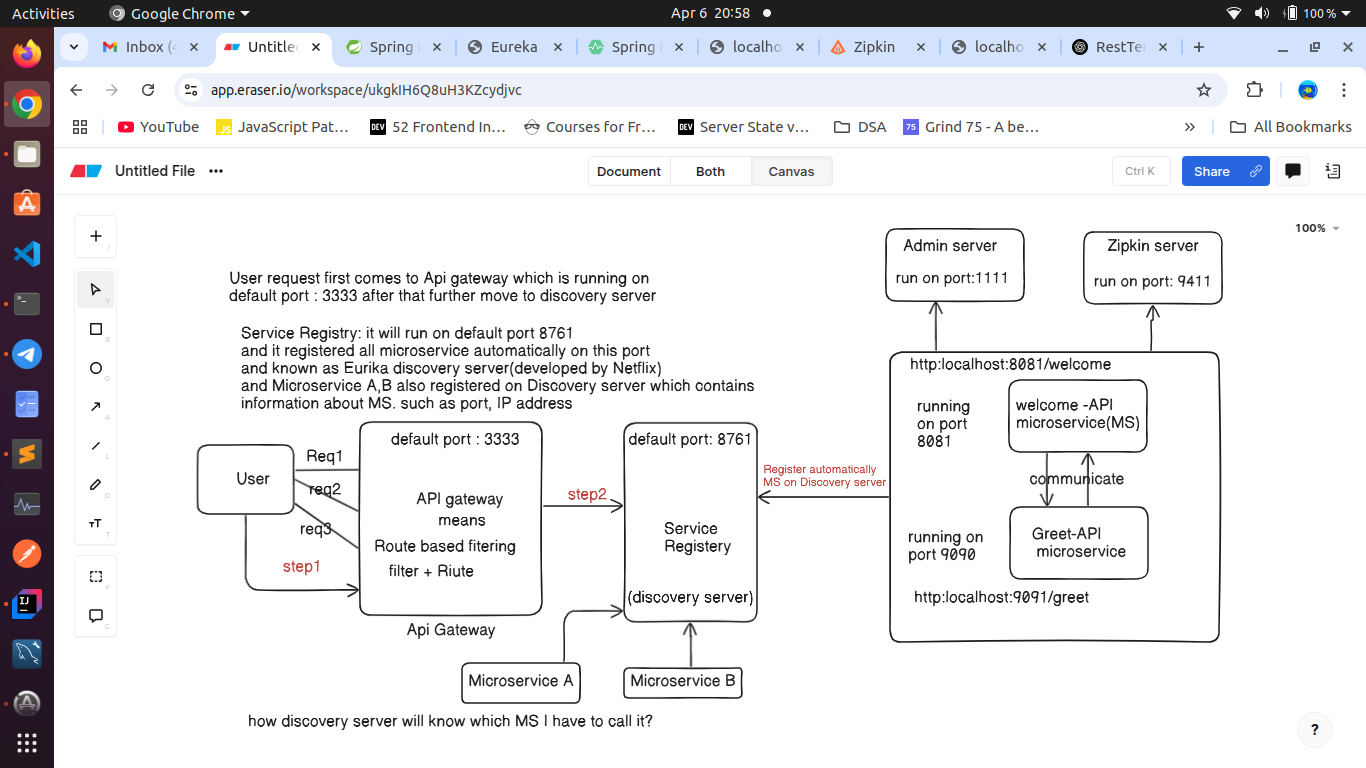
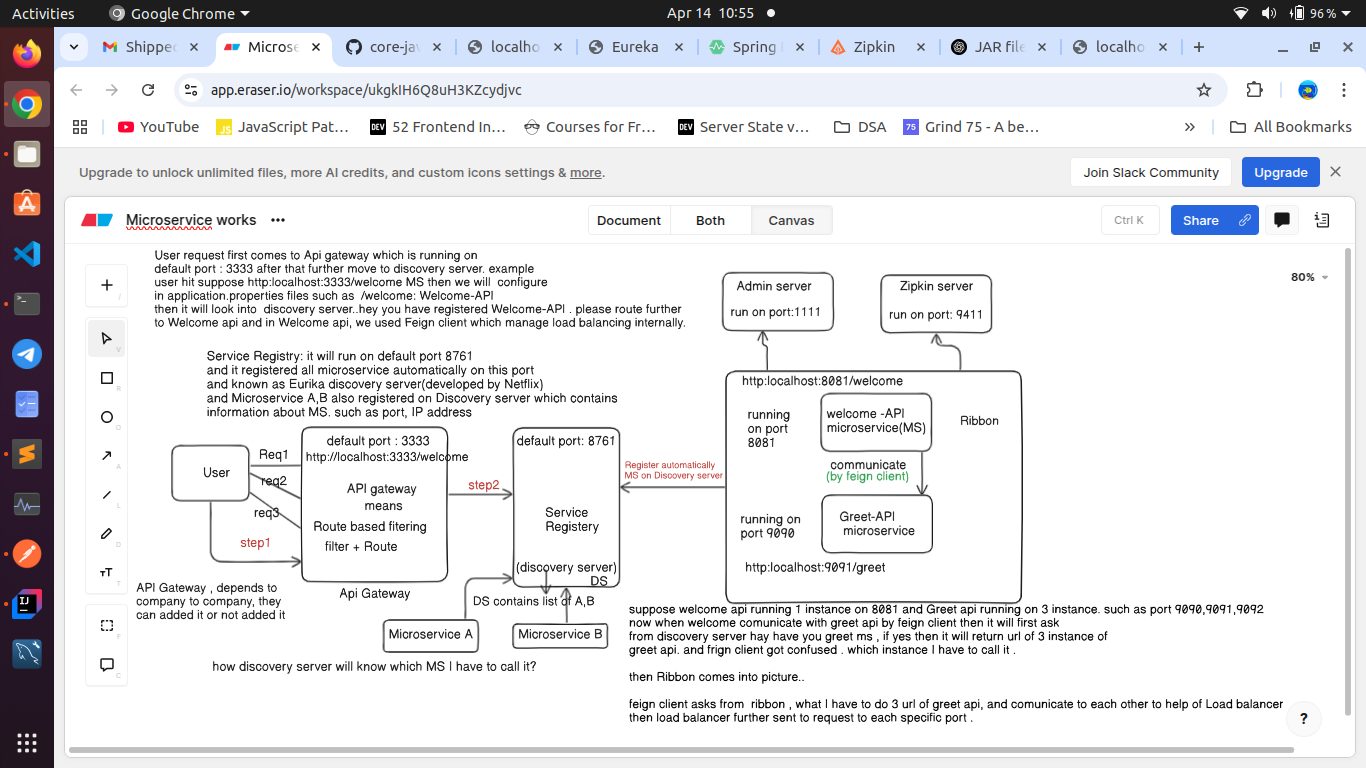
Microservice part 2 with load balancing concept done

diff --git a/Microservice/Greet-API/src/main/java/com/krish/Greet_API/controller/GreetController.java b/Microservice/Greet-API/src/main/java/com/krish/Greet_API/controller/GreetController.java
@@ -1,7 +1,10 @@
 package com.krish.Greet_API.controller;
 
+import com.netflix.discovery.converters.Auto;
 import org.slf4j.Logger;
 import org.slf4j.LoggerFactory;
+import org.springframework.beans.factory.annotation.Autowired;
+import org.springframework.core.env.Environment;
 import org.springframework.web.bind.annotation.GetMapping;
 import org.springframework.web.bind.annotation.RestController;
 
@@ -12,30 +15,130 @@ public class GreetController {
     //for logger enable
     private static final Logger logger= LoggerFactory.getLogger(GreetController.class);
 
+    @Autowired
+    private Environment environment;
+
     @GetMapping("/greet")
     public String greetMsg(){
         logger.info("inside greetMsg method in Greet api");
-        return "Good Morning , I am from Greet-API MS";
+        String port = environment.getProperty("server.port");///greet endpoinst kis port
+        // per chal reha hai bata do by using environment
+        System.out.println("running on port= "+port);
+        return "Good Morning , I am from Greet-API MS "+port;
     }
+
 }
+    /* In Microservice part 2 start here in which we learn how Greet-api MS runs on different
+    -2 port such as 9090,9091,9092
 
-/*
-* we can enable and disable logger from admin server without application restart
-* * http://localhost:1111/instances/3ec2b8d8f08a/loggers
-    make Root is OFF inside Logger
- * try to hit greet api and check console..
- *
- * we need add this config for admin server
- * spring.boot.admin.client.url=http://localhost:1111/
+     and also learn for api gateway filtering and environment
 
-*
-* result: 2025-04-06T08:50:01.759+05:30  INFO [Greet-API,,,] 161093 ---
-*  [Greet-API] [nio-9090-exec-7] [67f1f2e1e92d0aeb53ce752391809bbb-53ce752391809bbb]
-* c.k.G.controller.GreetController : inside greetMsg method in Greet api
+     By Using Environment varaible we can check which port number greet-api runs.
+    * 1.)
+    * suppose we want to check which port number running for greet-api without specify
+    * port in application.properties files such as server.port = server.port=9090
+    * then first make it server.port=9090 disabled it and used
+    * private Environment env;
+    -----------------------------------------------
+    2.)
+    Now we will create jar file of greet-api by using maven
 
- *
-* IN production, we can not add System.out.println() because console will not show in prod
-*  that's why we used Logger to show log file
-* such as to print message which work like console.log() in javascript
-*
+    click on maven icon -> Lifecycle ->
+    select clean and install and play/click green run button
+    then you will find under target -> Greet-API-0.0.1-SNAPSHOT.jar
+    --------------------------------------------
+    3.) start discovery server, admin server,zipkin, welcome api
+    and check in discovery server it is showing in it.
+        http://localhost:8761/
+        http://localhost:1111/applications
+        http://localhost:9411/zipkin/
+        welcome api is listed here.
+        http://localhost:8081/welcome
+
+    4.) now go to cmd
+Microservice/Greet-API/target$ java -jar Greet-API-0.0.1-SNAPSHOT.jar --server.port=9091
+successfully run on cmd console and you will see message like:
+2025-04-13T20:10:52.722+05:30  INFO
+[Greet-API,67fbccf462d5fe1d62fcb639c8be9147,62fcb639c8be9147] 85495 ---
+[Greet-API] [nio-9091-exec-9] [67fbccf462d5fe1d62fcb639c8be9147-62fcb639c8be9147] 4
+c.k.G.controller.GreetController         : inside greetMsg method in Greet api
+running on port= 9091
+
+http://localhost:9091/greet
+Good Morning , I am from Greet-API MS 9091
+
+till now everytjing is working fine
+
+---------------------------------------------------------
+
+5.) now try to greet-api run on  on 9092 and 9093 port as well
+
+Microservice/Greet-API/target$ java -jar Greet-API-0.0.1-SNAPSHOT.jar --server.port=9092
+http://localhost:9092/greet
+Good Morning , I am from Greet-API MS 9092
+
+
+Microservice/Greet-API/target$ java -jar Greet-API-0.0.1-SNAPSHOT.jar --server.port=9090
+http://localhost:9090/greet
+Good Morning , I am from Greet-API MS 9090
+
+Now till now 3 instance of greet-api MS run on different -2 port
+we acheived that till now.
+-------------------------------------------------
+
+6.) Now we will see magic of load balancing..
+open postman/or run in browser and run/hit multiple times: http://localhost:8081/welcome
+same url on different port it will take help from Eurika
+then you will see that load balancing manage automatically when ou hit single /welcome
+Good Morning , I am from Greet-API MS 9091 Hi, I am from Welcome API
+Good Morning , I am from Greet-API MS 9090 Hi, I am from Welcome API
+Good Morning , I am from Greet-API MS 9092 Hi, I am from Welcome API
+
+------------ End here --------------
+
 * */
+
+/** Let see how load balance manage without feign client
+ *
+ * like banking,enterprise,product based company don't like to used open source tool
+ * so y company apny hi internal algorithm likty hai
+ *  so wsee hi y load balance ko implement kerny k liye , in api gateway ko apni
+ *  algorithm d deta hai suppose
+ *
+ *  if api gateway check if request is coming from more than 3 then it will used
+ *  modolus (%) opeartor ka used kerky each instance ko index assign ker deta hai
+ *  such as 0,1,2
+ *
+ *  when hit first request, 0%3=0 (index) means runs 9090 instance
+ *  when hit second request, 1%3=1 (index) means runs 9091 instance
+ *  when hit third request, 2%3=2 (index) means runs 9092 instance
+ *
+ *  again when hit fourth request, 3%3=0 (index) means runs 9090 instance
+ *  again when hit fifth request, 4%3=1 (index) means runs 9091 instance
+ *  again when hit six request, 5%3=2 (index) means runs 9092 instance
+ *
+ *  and continue this process.....
+ *
+ *  Just for understanding interview perespective...
+ *
+ *---------------------------------------
+ * **/
+
+/**
+ * Let's start how to make API Gateway
+ *
+ * Routing:
+ * As we already see greet api has running on multiple instance such as 9090,9091,9092
+ * and welcome api runs on single instance
+ *
+ * User request first comes to Api gateway which is running on
+ * * default port : 3333 after that further move to discovery server.
+ * For example:
+ * * user hit suppose http:localhost:3333/welcome MS then we will configure
+ * * in application.properties files such as  /welcome: Welcome-API
+ *
+ * then it will look into  discovery server..hey you have registered Welcome-API
+ * please route further to welcome api and In welcome api we used feign client which handle
+ * internal load balancing manage automatically.
+ *
+ * */

diff --git a/Microservice/Greet-API/src/main/java/com/krish/Greet_API/controller/GreetControllerWithoutEnvironment.java b/Microservice/Greet-API/src/main/java/com/krish/Greet_API/controller/GreetControllerWithoutEnvironment.java
@@ -1,0 +1,43 @@
+package com.krish.Greet_API.controller;
+
+import org.slf4j.Logger;
+import org.slf4j.LoggerFactory;
+import org.springframework.web.bind.annotation.GetMapping;
+import org.springframework.web.bind.annotation.RestController;
+
+@RestController
+
+public class GreetControllerWithoutEnvironment  {
+
+    //for logger enable
+    private static final Logger logger= LoggerFactory.getLogger(GreetControllerWithoutEnvironment.class);
+
+    @GetMapping("/greet1")
+    public String greetMsg(){
+        logger.info("inside greetMsg method in Greet api");
+        return "Good Morning , I am from Greet-API MS";
+    }
+}
+
+/*
+* we can enable and disable logger from admin server without application restart
+* * http://localhost:1111/instances/3ec2b8d8f08a/loggers
+    make Root is OFF inside Logger
+ * try to hit greet api and check console..
+ *
+ * we need add this config for admin server
+ * spring.boot.admin.client.url=http://localhost:1111/
+
+*
+* result: 2025-04-06T08:50:01.759+05:30  INFO [Greet-API,,,] 161093 ---
+*  [Greet-API] [nio-9090-exec-7] [67f1f2e1e92d0aeb53ce752391809bbb-53ce752391809bbb]
+* c.k.G.controller.GreetController : inside greetMsg method in Greet api
+
+ *
+* IN production, we can not add System.out.println() because console will not show in prod
+*  that's why we used Logger to show log file
+* such as to print message which work like console.log() in javascript
+*
+* here Microservice part 1 done here
+*
+* */
